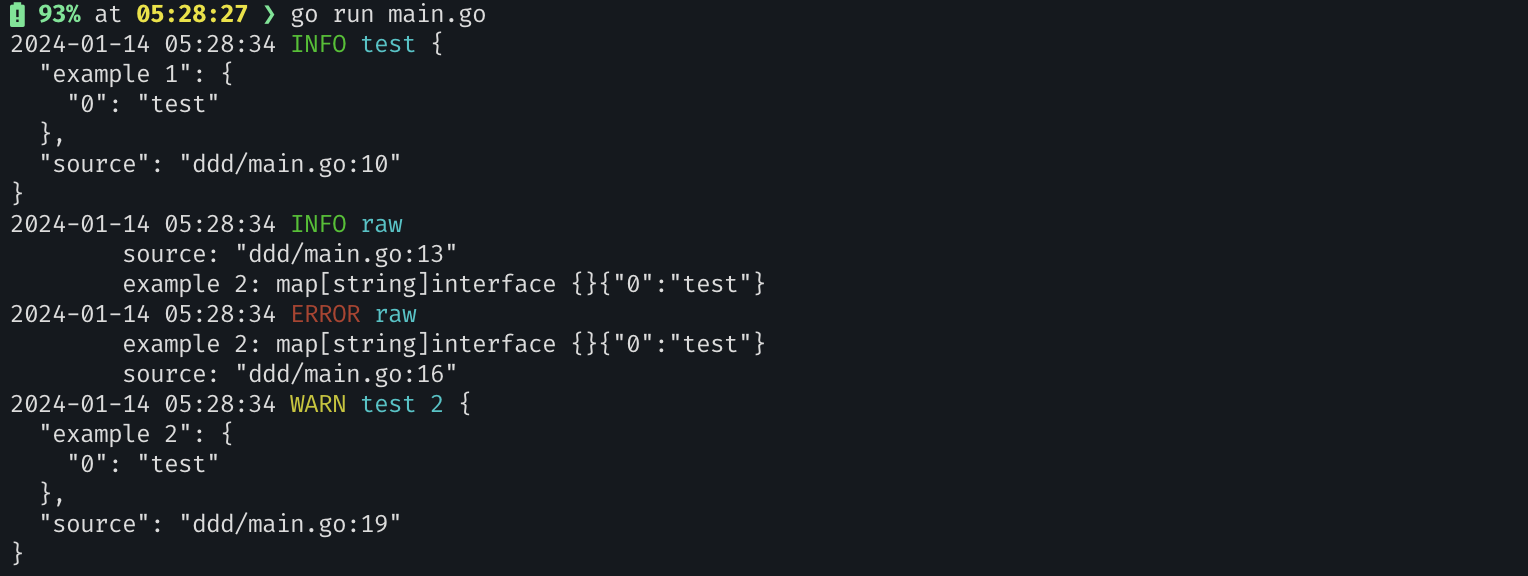
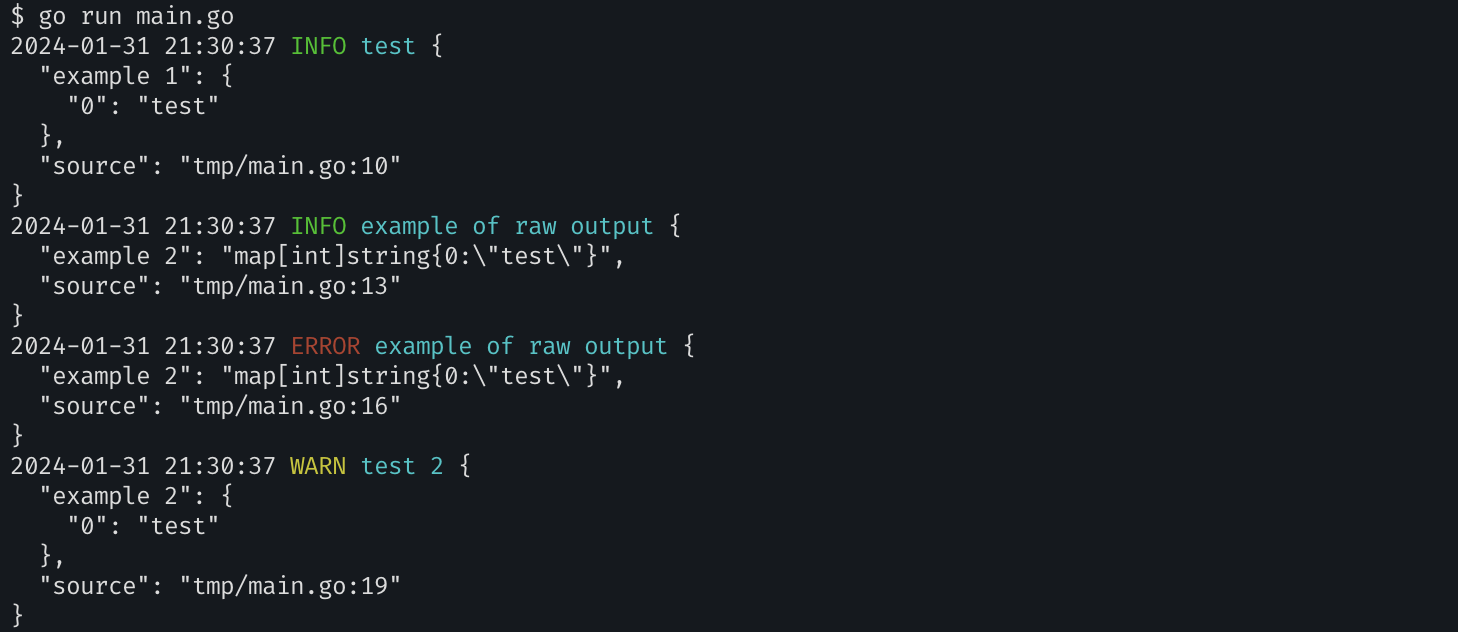
update the raw output

diff --git a/handler.go b/handler.go
@@ -32,12 +32,15 @@ func (h *Handler) Handle(ctx context.Context, r slog.Record) error {
 		h.m.Unlock()
 	}()
 
-	var out []byte
+	var (
+		fields = make(map[string]interface{}, r.NumAttrs())
+		out    []byte
+	)
 
 	if h.format == "json" {
-		r.Add(slog.String("level", strings.ToLower(r.Level.String())))
-		r.Add(slog.String("msg", r.Message))
-		r.Add(slog.String("time", r.Time.Format(time.DateTime)))
+		fields["level"] = strings.ToLower(r.Level.String())
+		fields["msg"] = r.Message
+		fields["time"] = r.Time.Format(time.DateTime)
 	} else {
 		out = []byte(fmt.Sprintf("%s %s %s ",
 			r.Time.Format(time.DateTime),
@@ -56,35 +59,14 @@ func (h *Handler) Handle(ctx context.Context, r slog.Record) error {
 	}
 
 	for k, v := range attrs {
-		if r.Message == "raw" {
-			if !map[string]bool{
-				"source": true,
-			}[k] {
-				v = fmt.Sprintf("%#v", v)
-			}
-		}
-
-		r.Add(slog.Any(k, v))
+		fields[k] = v
 	}
 
-	fields := make(map[string]interface{}, r.NumAttrs())
-	r.Attrs(func(a slog.Attr) bool {
-		fields[a.Key] = a.Value.Any()
-
-		return true
-	})
-
 	if h.pretty {
-		if r.Message == "raw" && h.format != "json" {
-			for k, v := range fields {
-				out = append(out, []byte(fmt.Sprintf("\n\t%s: %s", k, v))...)
-			}
+		if b, err := json.MarshalIndent(fields, "", "  "); err != nil {
+			return err
 		} else {
-			if b, err := json.MarshalIndent(fields, "", "  "); err != nil {
-				return err
-			} else {
-				out = append(out, b...)
-			}
+			out = append(out, b...)
 		}
 	} else {
 		if b, err := json.Marshal(fields); err != nil {

diff --git a/logger.go b/logger.go
@@ -34,6 +34,8 @@ func SetLogger(opts Options) {
 				return slog.Attr{}
 			}
 
+			key := strings.Split(a.Key, ";")
+
 			if a.Key == slog.SourceKey {
 				s := a.Value.Any().(*slog.Source)
 
@@ -43,6 +45,9 @@ func SetLogger(opts Options) {
 					filepath.Join(filepath.Base(dir), file),
 					s.Line,
 				))
+			} else if key[0] == "raw" {
+				a.Key = strings.Join(key[1:], ";")
+				a.Value = slog.StringValue(fmt.Sprintf("%#v", a.Value.Any()))
 			}
 
 			return a

diff --git a/docs/README.md b/docs/README.md
@@ -14,13 +14,13 @@ func main() {
 	slog.Info("test", "example 1", map[int]string{
 		0: "test",
 	})
-	slog.Info("raw", "example 2", map[int]string{
+	slog.Info("example of raw output", "raw;example 2", map[int]string{
 		0: "test",
 	})
-	slog.Error("raw", "example 2", map[int]string{
+	slog.Error("example of raw output", "raw;example 3", map[int]string{
 		0: "test",
 	})
-	slog.Warn("test 2", "example 2", map[int]string{
+	slog.Warn("test 2", "example 4", map[int]string{
 		0: "test",
 	})
 }
